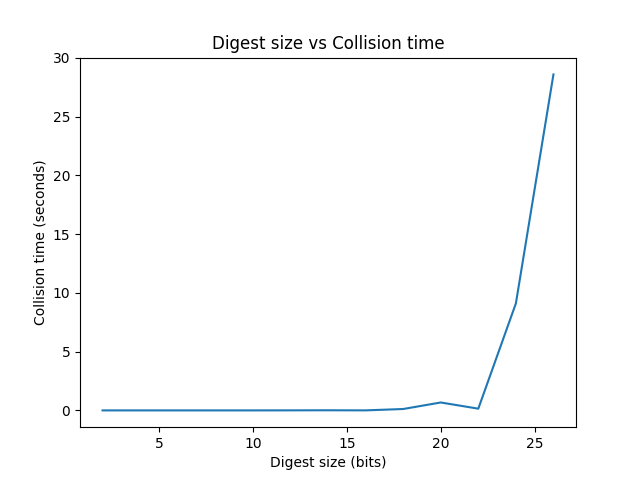
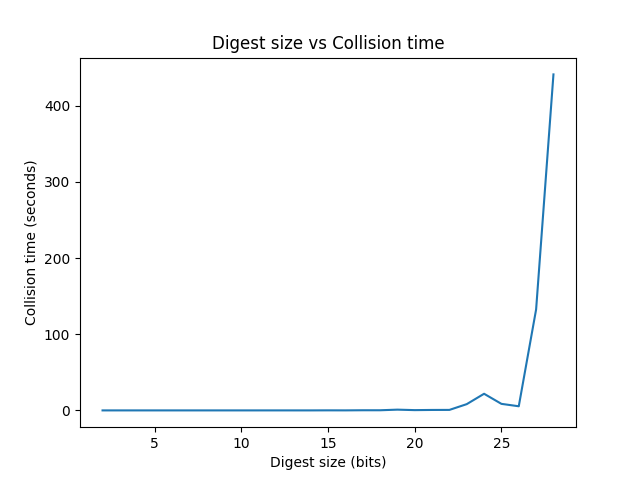
updated bit length range in create_graphs function to 28 bits and updated graph

diff --git a/Assignment4/task1.py b/Assignment4/task1.py
@@ -56,7 +56,7 @@ def part1_3_target_collision(message1, bitstoremove):
 
 def create_graphs(message):
     times = []
-    bit_lengths = [i for i in range(2, 28)]
+    bit_lengths = [i for i in range(2, 29)]
 
     for bit in bit_lengths:
         start = time.time()
